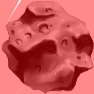
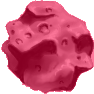
RED ASTEROIDS

diff --git a/public/js/game/resources.js b/public/js/game/resources.js
@@ -14,8 +14,8 @@ define(['classy',
                 this.smallAsteroid = new Resource(23, "/images/asteroid/smallAsteroid.png", false, 0, 2);
 
                 this.bigAsteroidDamaged = new Resource(47, "/images/asteroid/bigDamaged.png", false, 0, 0);
-                this.mediumAsteroidDamaged = new Resource(47, "/images/asteroid/bigDamaged.png", false, 0, 0);
-                this.smallAsteroidDamaged = new Resource(47, "/images/asteroid/bigDamaged.png", false, 0, 0);
+                this.mediumAsteroidDamaged = new Resource(40, "/images/asteroid/mediumDamaged.png", false, 0, 0);
+                this.smallAsteroidDamaged = new Resource(23, "/images/asteroid/smallDamaged.png", false, 0, 2);
 
                 this.bigAsteroid = new Resource(47, "/images/asteroid/bigAsteroid.png", false, 0, 0);
 

diff --git a/public/js/game/objects/asteroid.js b/public/js/game/objects/asteroid.js
@@ -26,7 +26,7 @@ define(['game/objects/object'],
 
 //----------------------------------------------------------------------------------------------------------------------------------------
                 
-                this.initDamaged;
+                this.initDamaged();
                 this.normalRes = this.resource;
                 
 
@@ -38,7 +38,7 @@ define(['game/objects/object'],
 
             initDamaged: function(){
                 this.whileDamaged = 0;
-                this.damagedTimeout = 100;
+                this.damagedTimeout = 10;
                 this.damaged = false;
             }
 

diff --git a/public/js/game/mechanics.js b/public/js/game/mechanics.js
@@ -34,7 +34,7 @@ define(['classy',
                     //---------------------------------------------------------------------------------------
 
                     if (object[i].damaged && object[i].whileDamaged > object[i].damagedTimeout){
-                        object[i].initDamaged;
+                        object[i].initDamaged();
                         object[i].resource = object[i].normalRes;
                     }
 
